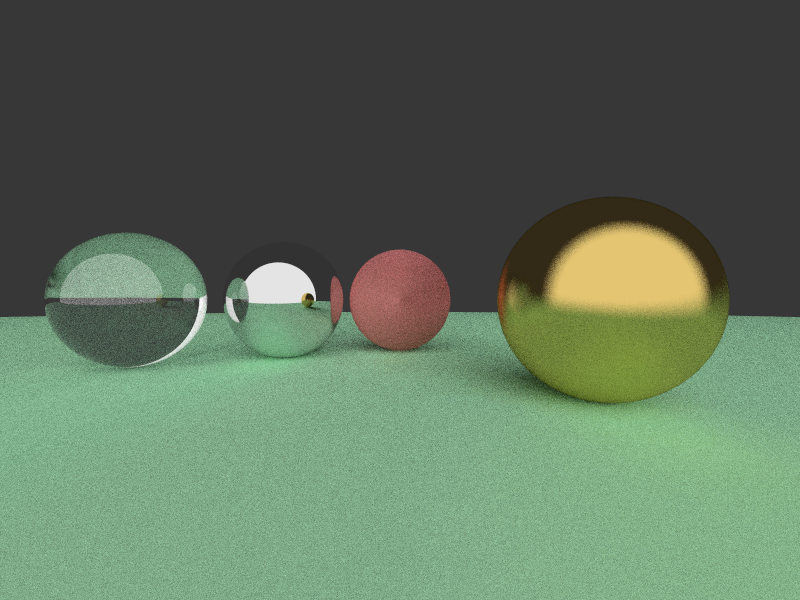
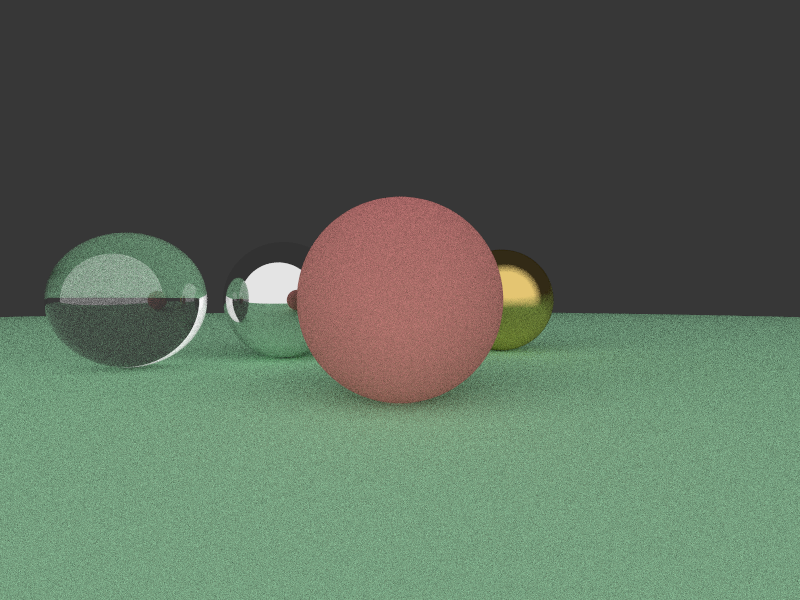
Fix bug with random hemisphere vector

Changed region(s): [[0.0, 0.33, 1.0, 1.0]]

diff --git a/raytracer/src/material.rs b/raytracer/src/material.rs
@@ -5,6 +5,7 @@ use crate::FloatTy;
 
 use rand;
 use rand::prelude::*;
+use rand_distr::{Distribution, UnitSphere};
 
 #[derive(Debug, Clone)]
 pub struct MaterialScatter {
@@ -50,8 +51,7 @@ impl Lambertian {
 impl Material for Lambertian {
     fn scatter(&self, _: &Ray, record: &IntersectionRecord) -> Option<MaterialScatter> {
         let mut rng = rand::thread_rng();
-        // let mut target = record.p + record.normal + random_unit_sphere(&mut rng);
-        let new_direction = random_unit_hemisphere(&mut rng, record.normal);
+        let new_direction = utils::random_unit_hemisphere(&mut rng, record.normal);
 
         let scattered = Ray::new(record.p, new_direction);
         Some(MaterialScatter {
@@ -59,43 +59,6 @@ impl Material for Lambertian {
             scattered: Some(scattered),
         })
     }
-}
-
-fn random_unit_sphere<R: Rng>(rng: &mut R) -> Vec3 {
-    loop {
-        let temp = Vec3::new(rng.gen(), rng.gen(), rng.gen()) * 2.0 - Vec3::all(1.0);
-        if temp.length_squared() < 1.0 {
-            return temp;
-        }
-    }
-}
-
-fn random_unit_hemisphere<R: Rng>(rng: &mut R, normal: Vec3) -> Vec3 {
-    use crate::vec3::BASES;
-
-    // https://math.stackexchange.com/questions/1585975/how-to-generate-random-points-on-a-sphere
-    let u1: f64 = rng.gen();
-    let u2: f64 = rng.gen();
-    let lambda = (2.0 * u1 - 1.0).acos() - std::f64::consts::FRAC_PI_2;
-    let longitude = 2.0 * std::f64::consts::PI * u2;
-
-    let x = lambda.cos() * longitude.cos();
-    let y = (lambda.cos() * longitude.sin()).abs(); // abs because we want in the hemisphere
-    let z = lambda.sin();
-
-    let v = Vec3::new(x as _, y as _, z as _).to_unit();
-
-    let (comp_index, _) = [v.x, v.y, v.z]
-        .iter()
-        .map(|comp| comp.abs())
-        .enumerate()
-        .min_by(|(_, a), (_, b)| a.partial_cmp(b).unwrap())
-        .unwrap();
-
-    let s = BASES[comp_index];
-    let t = Vec3::cross(normal, s).to_unit();
-
-    Vec3::new(Vec3::dot(v, s), Vec3::dot(v, normal), Vec3::dot(v, t)).to_unit()
 }
 
 #[derive(Debug, Clone)]
@@ -118,10 +81,9 @@ impl Material for Metal {
         let mut rng = rand::thread_rng();
         let reflected = utils::reflect(ray.direction.to_unit(), record.normal);
         if Vec3::dot(reflected, record.normal) > 0.0 {
-            let scattered = Ray::new(
-                record.p,
-                reflected.to_unit() + random_unit_sphere(&mut rng) * self.fuzz,
-            );
+            let sample_sphere: [FloatTy; 3] = UnitSphere.sample(&mut rng);
+            let sample_sphere: Vec3 = sample_sphere.into();
+            let scattered = Ray::new(record.p, reflected.to_unit() + sample_sphere * self.fuzz);
             Some(MaterialScatter {
                 attenuation: self.albedo,
                 scattered: Some(scattered),
@@ -186,6 +148,9 @@ impl Material for Dielectric {
 
 mod utils {
     use crate::{FloatTy, Vec3};
+    use rand;
+    use rand::prelude::*;
+    use rand_distr::{Distribution, UnitSphere};
 
     pub fn reflect(v: Vec3, n: Vec3) -> Vec3 {
         v - n * 2.0 * Vec3::dot(v, n)
@@ -206,5 +171,24 @@ mod utils {
         let r0 = (1.0 - reflective_index) / (1.0 + reflective_index);
         let r0 = r0 * r0;
         r0 + (1.0 - r0) * (1.0 - cos).powi(5)
+    }
+
+    pub fn random_unit_hemisphere<R: Rng>(rng: &mut R, normal: Vec3) -> Vec3 {
+        let [x, y, z]: [f64; 3] = UnitSphere.sample(rng);
+        let v = Vec3::new(x as _, y.abs() as _, z as _).to_unit();
+
+        let t = if normal.x.abs() > normal.y.abs() {
+            Vec3::new(normal.z, 0.0, -normal.x).to_unit()
+        } else {
+            Vec3::new(0.0, -normal.z, normal.y).to_unit()
+        };
+        let s = Vec3::cross(normal, t);
+
+        Vec3::new(
+            v.x * s.x + v.y * normal.x + v.z * t.x,
+            v.x * s.y + v.y * normal.y + v.z * t.y,
+            v.x * s.z + v.y * normal.z + v.z * t.z,
+        )
+        .to_unit()
     }
 }

diff --git a/raytracer/src/vec3.rs b/raytracer/src/vec3.rs
@@ -7,12 +7,6 @@ pub struct Vec3 {
     pub z: FloatTy,
 }
 
-pub static BASES: [Vec3; 3] = [
-    Vec3::new(1.0, 0.0, 0.0),
-    Vec3::new(0.0, 1.0, 0.0),
-    Vec3::new(0.0, 0.0, 1.0),
-];
-
 impl Vec3 {
     pub const fn new(x: FloatTy, y: FloatTy, z: FloatTy) -> Self {
         Vec3 { x, y, z }
@@ -54,6 +48,23 @@ impl Vec3 {
         self / self.length()
     }
 }
+
+macro_rules! impl_from_array_vec3 {
+    ($float_ty:ty) => {
+        impl From<[$float_ty; 3]> for Vec3 {
+            fn from(array: [$float_ty; 3]) -> Self {
+                Vec3 {
+                    x: array[0] as _,
+                    y: array[1] as _,
+                    z: array[2] as _,
+                }
+            }
+        }
+    };
+}
+
+impl_from_array_vec3!(f32);
+impl_from_array_vec3!(f64);
 
 impl std::ops::Add for Vec3 {
     type Output = Vec3;

diff --git a/raytracer_cli/src/main.rs b/raytracer_cli/src/main.rs
@@ -55,12 +55,12 @@ fn main() {
 
     let objects: Arc<Vec<Box<dyn Intersectable>>> = Arc::new(vec![
         Box::new(Sphere::new(
-            Vec3::new(0.0, 0.0, -4.0),
+            Vec3::new(0.0, 0.0, -2.0),
             0.5,
             Arc::new(Lambertian::new(Vec3::new(0.8, 0.3, 0.3))),
         )),
         Box::new(Sphere::new(
-            Vec3::new(1.0, 0.0, -2.0),
+            Vec3::new(1.0, 0.0, -4.0),
             0.5,
             Arc::new(Metal::new(Vec3::new(0.8, 0.6, 0.2), Some(0.2))),
         )),
